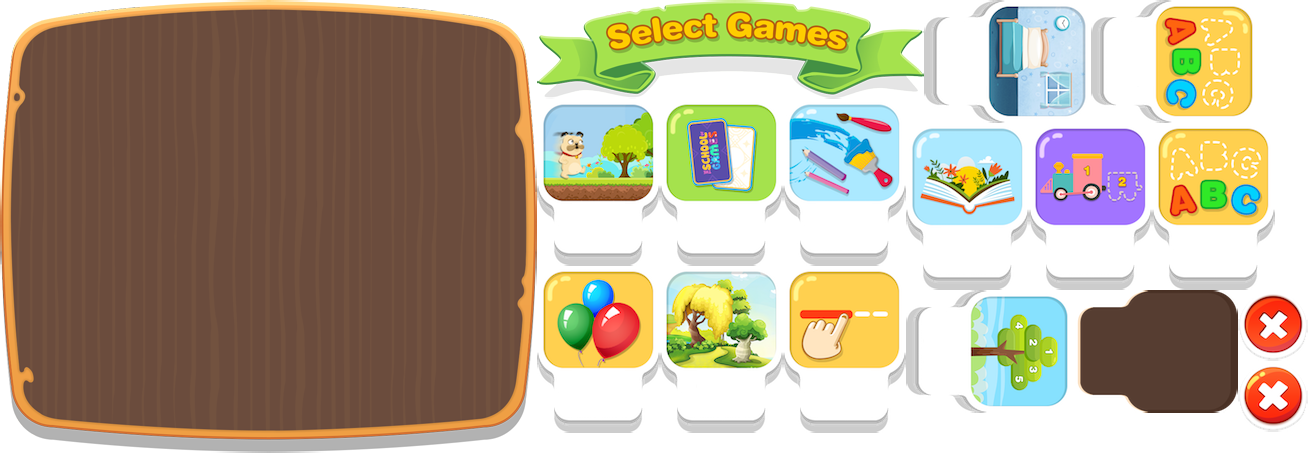
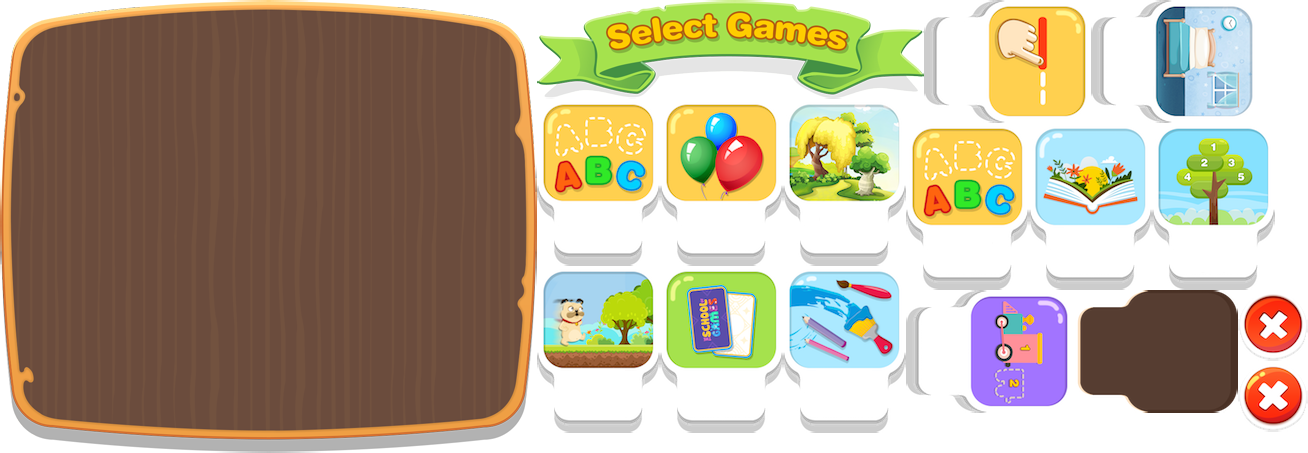
fix crash when tap on step 3-5

Changed region(s): [[0.3976, 0.0, 0.9786, 0.4945], [0.3976, 0.5872, 0.7034, 0.8344], [0.7339, 0.649, 0.8257, 0.8962]]

diff --git a/src/layers/SceneFlow/SceneFlowController.js b/src/layers/SceneFlow/SceneFlowController.js
@@ -182,6 +182,9 @@ var SceneFlowController = cc.Class.extend({
             case "alpharacing":
                 cc.director.runScene(new AlphaRacingScene(data, option));
                 break;
+            case "alphabet":
+                cc.director.runScene(new AlphabetGameScene(data, option));
+                break;
             case "shoppingbasket":
                 cc.director.runScene(new ShoppingBasketScene(data));
                 break;
